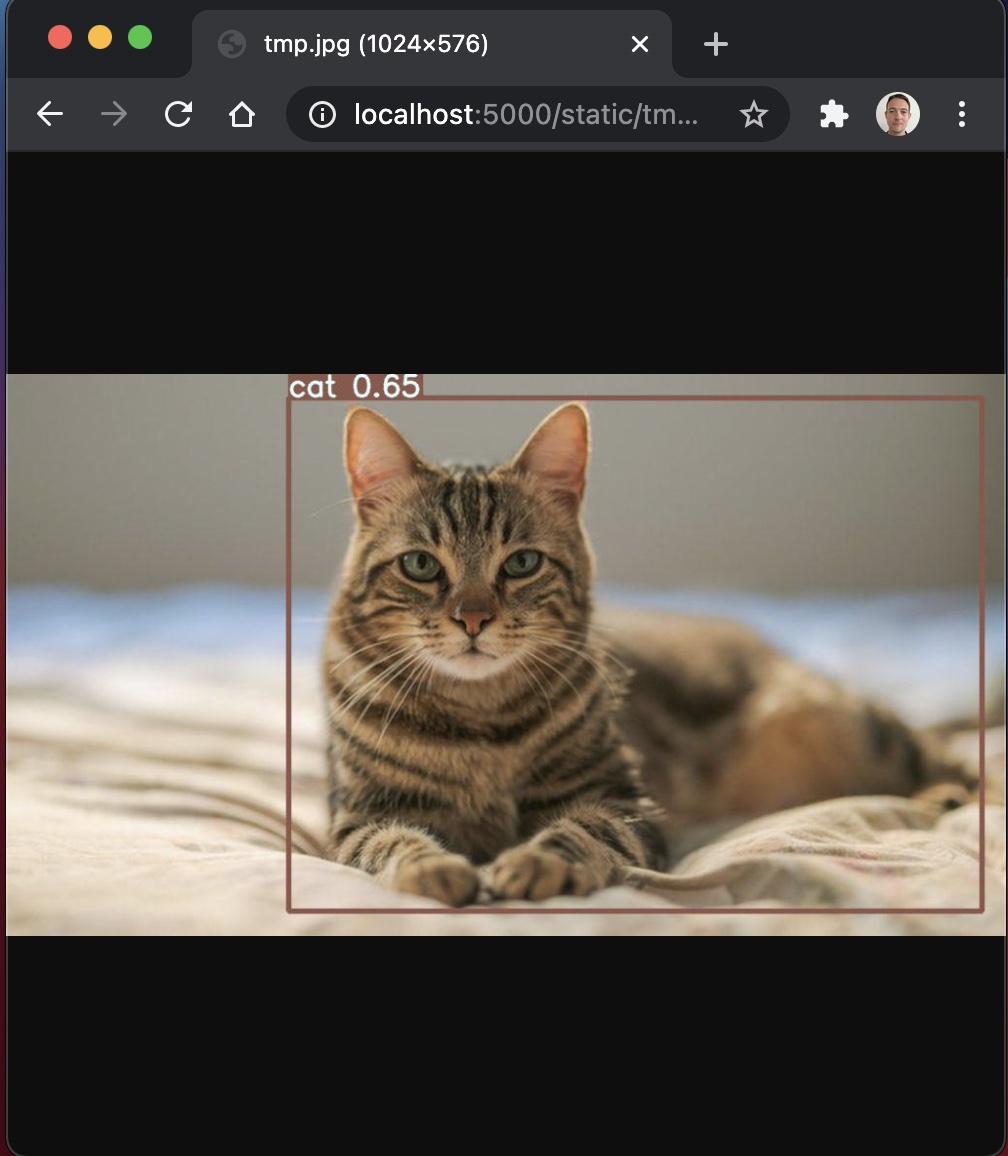
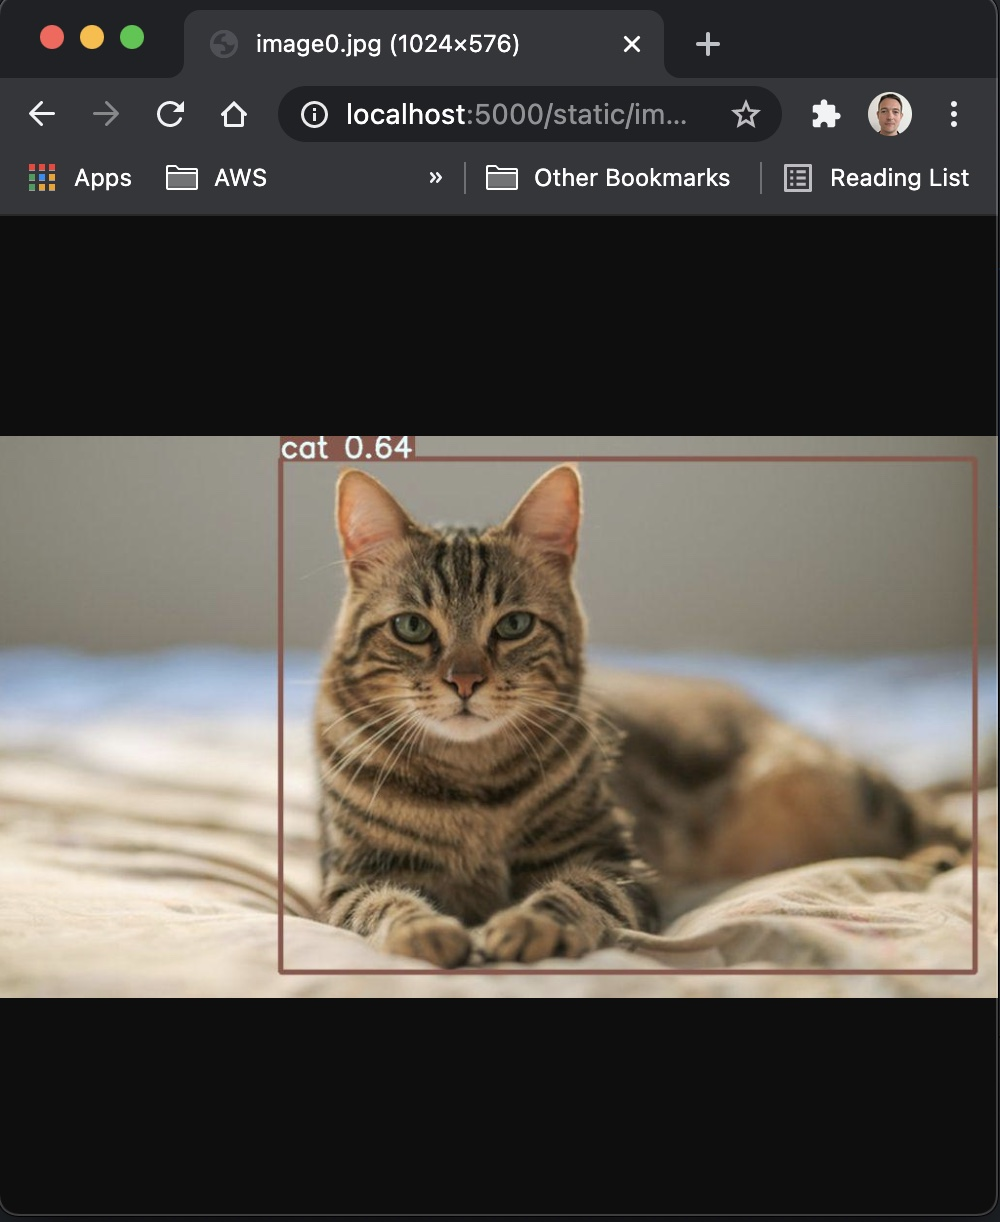
update images

Changed region(s): [[0.0, 0.0, 1.0, 1.0], [0.682, 0.0311, 0.713, 0.0623]]

diff --git a/templates/index.html b/templates/index.html
@@ -18,7 +18,7 @@
     </style>
     <link rel="stylesheet" href="/static/style.css">
 
-    <title>yolov5 object detection using PyTorch</title>
+    <title>yolov5 object detection</title>
   </head>
   <body class="text-center">
     <form class="form-signin" method=post enctype=multipart/form-data>
@@ -27,7 +27,7 @@
         <input type="file" name="file" class="form-control-file" id="inputfile">
         <br/>
         <button class="btn btn-lg btn-primary btn-block" type="submit">Upload</button>
-        <p class="mt-5 mb-3 text-muted">Built using Pytorch, Flask and Love</p>
+        <p class="mt-5 mb-3 text-muted">Built using Pytorch & Flask</p>
     </form>
     <script src="//code.jquery.com/jquery-3.3.1.slim.min.js" integrity="sha384-q8i/X+965DzO0rT7abK41JStQIAqVgRVzpbzo5smXKp4YfRvH+8abtTE1Pi6jizo" crossorigin="anonymous"></script>
     <script src="//cdnjs.cloudflare.com/ajax/libs/popper.js/1.14.6/umd/popper.min.js" integrity="sha384-wHAiFfRlMFy6i5SRaxvfOCifBUQy1xHdJ/yoi7FRNXMRBu5WHdZYu1hA6ZOblgut" crossorigin="anonymous"></script>

diff --git a/app.py b/app.py
@@ -12,6 +12,7 @@ from flask import Flask, render_template, request, redirect
 
 app = Flask(__name__)
 
+
 @app.route("/", methods=["GET", "POST"])
 def predict():
     if request.method == "POST":
@@ -26,7 +27,7 @@ def predict():
 
         results = model(img, size=640)
         results.display(save=True, save_dir="static")
-        return redirect("static/tmp.jpg")
+        return redirect("static/image0.jpg")
 
     return render_template("index.html")
 
@@ -36,6 +37,8 @@ if __name__ == "__main__":
     parser.add_argument("--port", default=5000, type=int, help="port number")
     args = parser.parse_args()
 
-    model = torch.hub.load("ultralytics/yolov5", "yolov5s", pretrained=True, force_reload=True).autoshape() # force_reload = recache latest code
+    model = torch.hub.load(
+        "ultralytics/yolov5", "yolov5s", pretrained=True, force_reload=True
+    ).autoshape()  # force_reload = recache latest code
     model.eval()
-    app.run(host="0.0.0.0", port=args.port) # debug=True causes Restarting with stat
+    app.run(host="0.0.0.0", port=args.port)  # debug=True causes Restarting with stat
